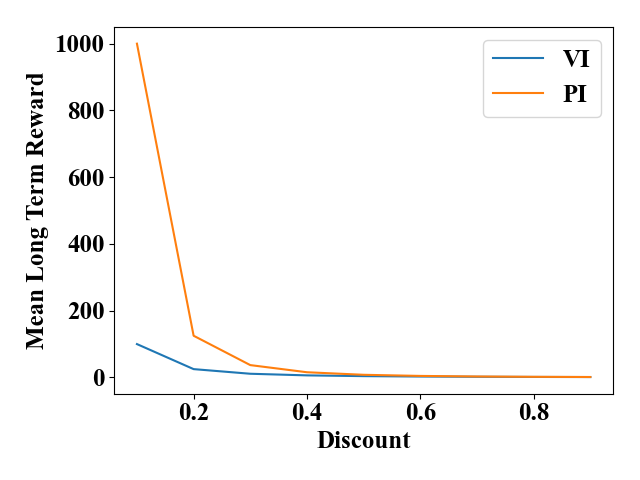
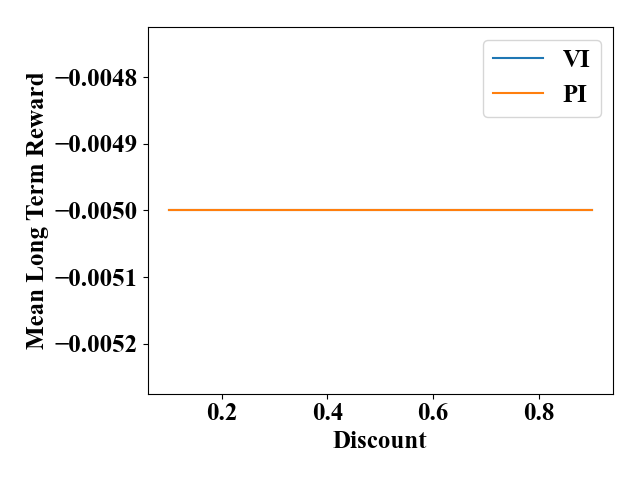
Take some walks

diff --git a/a4/tune_lake.py b/a4/tune_lake.py
@@ -6,6 +6,11 @@ import numpy as np
 import mdptoolbox, mdptoolbox.example
 import matplotlib.pyplot as plt
 
+DIR = 'DRUL'
+LET = 'HFSG'
+S = 58
+STATES = S * S
+
 def plot_stuff(x, y1, y2, y1_label, y2_label, xlabel, ylabel, name):
     plt.clf()
     font = { 'family': 'Times New Roman', 'size': 18 }
@@ -19,10 +24,24 @@ def plot_stuff(x, y1, y2, y1_label, y2_label, xlabel, ylabel, name):
     plt.savefig(f"{name}.png")
     plt.show()
 
-#def walk(P, R, policy):
+# P (A × S × S)
+# R (S × A)
+def walk(P, R, policy):
+    np.random.seed(11)
+    max_iters = 1000
+    total_reward = 0
+    s = 0
+    i = 0
+    while i < max_iters:
+        a = policy[s]
+        r = R[s,a]
+        total_reward += r
+        if r != 0:
+            break
+        s = np.random.choice(STATES, p=P[a,s,:])
+        i += 1
+    return total_reward
 
-S = 5
-LET = 'HFSG'
 np_map = np.ones((S, S), dtype=int)
 toggle = True
 hole_len = int(S * 0.3)
@@ -52,7 +71,10 @@ for s in range(nS):
         transitions = env.P[s][a]
         for p_trans, next_s, reward, _ in transitions:
             P[a,s,next_s] += p_trans
-            R[s,a] = reward
+            if reward == 0:
+                R[s,a] = -0.005
+            else:
+                R[s,a] = reward
         P[a,s,:] /= np.sum(P[a,s,:])
 
 env.close()
@@ -62,6 +84,7 @@ print('R.shape', R.shape)
 
 n_vals = 9
 results = np.zeros((n_vals, 3))
+n_walks = 10
 for i in range(n_vals):
     D = (i + 1) / 10
 
@@ -75,8 +98,14 @@ for i in range(n_vals):
 #    pi.setVerbose()
     pi.run()
 
-    vi_mean_reward = 1 / D ** 2
-    pi_mean_reward = 1 / D ** 3
+    vi_rewards = np.zeros(n_walks)
+    pi_rewards = np.zeros(n_walks)
+    for j in range(n_walks):
+        vi_rewards[j] = walk(P, R, vi.policy)
+        pi_rewards[j] = walk(P, R, pi.policy)
+
+    vi_mean_reward = np.mean(vi_rewards)
+    pi_mean_reward = np.mean(pi_rewards)
 
     results[i,0] = D
     results[i,1] = vi_mean_reward

diff --git a/a4/dir_experiment.py b/a4/dir_experiment.py
@@ -1,0 +1,36 @@
+#!/usr/bin/env python
+
+import sys
+import gym
+import numpy as np
+import mdptoolbox, mdptoolbox.example
+import matplotlib.pyplot as plt
+
+D = 0.9
+LET = 'HFSG'
+# LET = ' FSG'
+
+def policy(custom_map):
+    env = gym.make('FrozenLake-v0', desc=custom_map, is_slippery=True)
+    nA, nS = env.nA, env.nS
+    P = np.zeros([nA, nS, nS])
+    R = np.zeros([nS, nA])
+    for s in range(nS):
+        for a in range(nA):
+            transitions = env.P[s][a]
+            for p_trans, next_s, reward, _ in transitions:
+                P[a,s,next_s] += p_trans
+                R[s,a] = reward
+            P[a,s,:] /= np.sum(P[a,s,:])
+
+    env.close()
+    mdptoolbox.util.check(P, R)
+    vi = mdptoolbox.mdp.ValueIteration(P, R, D)
+#    vi.setVerbose()
+    vi.run()
+    return vi.policy
+
+print('R', policy(['SG','FF'])[0])
+print('L', policy(['GS','FF'])[1])
+print('U', policy(['GF','SF'])[2])
+print('D', policy(['SF','GF'])[0])
